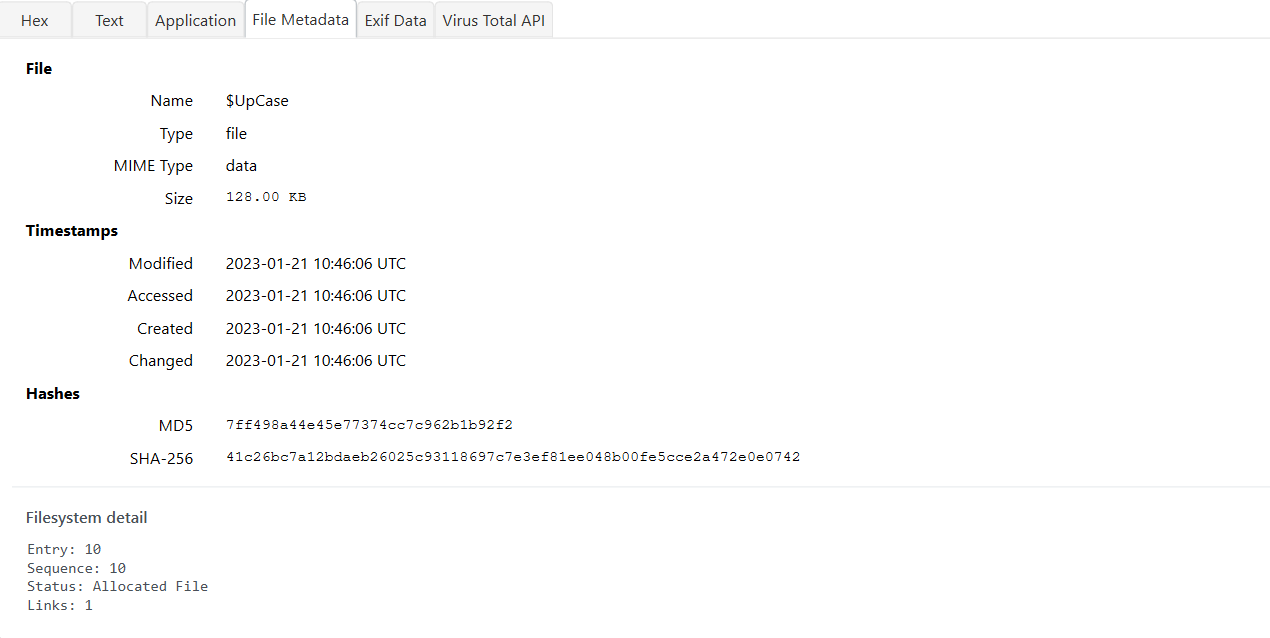
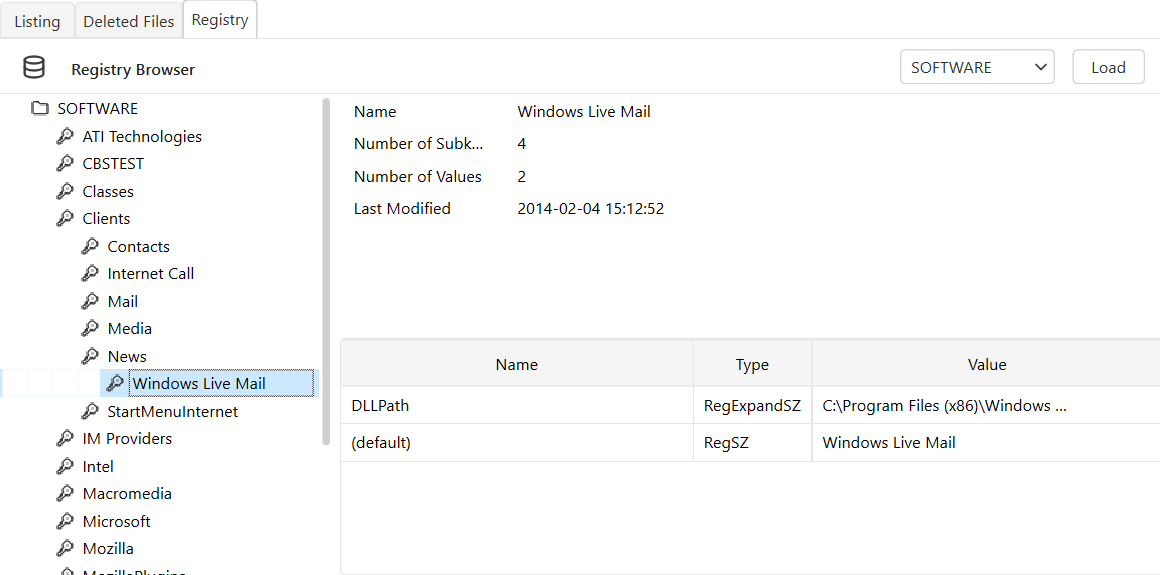
Centre the PDF zoom field, matching the page fields either side of it
The zoom percentage was the one text field in the three viewer toolbars set to
AlignRight, so its value sat hard against the edge while the page boxes in Hex,
Text and the PDF bar itself all centre theirs. Centred now.

The sizes were already right, which is worth recording since it was the other
half of the report: measured across all three bars, the navigation group is
byte-identical -- buttons at x=8 and x=42, the page field 48x24 at x=76, its
label 64 wide at x=130, the next two buttons at x=200 and x=234, separator at
x=268 -- in both themes. The PDF bar diverges only after that separator,
because from there it carries different controls (zoom, fit, pan) rather than a
font size and a search box.

Two measurement notes, since both nearly sent me after imaginary bugs: a
PDFViewer built standalone and handed the stylesheet renders its fields without
borders, which looks like a styling difference but is not one -- inside the
window it inherits the application sheet and matches. And comparing a
freshly-built PDF toolbar against Hex and Text toolbars that have not been
re-laid-out reports a difference that disappears once each is activated.

Verified: zoom field still displays, accepts a typed percentage and resets;
nav group identical across the three bars in both themes; all three toolbars
44px tall; behavioural baseline unchanged.

diff --git a/trace_app/ui/viewers/media/pdf.py b/trace_app/ui/viewers/media/pdf.py
@@ -121,11 +121,15 @@ class PDFViewer(QWidget):
         self.zoom_in_action.triggered.connect(self.zoom_in)
         self.toolbar.addAction(self.zoom_in_action)
 
-        # QLineEdit for zoom percentage
+        # Zoom percentage. Centred and sized like the page box above it and
+        # the font-size control in the Hex and Text bars, so the three tabs
+        # present the same kind of field the same way; it was right-aligned,
+        # which put its text hard against the edge while every other field in
+        # the application centres its value.
         self.zoom_percentage_entry = QLineEdit(self)
         self.zoom_percentage_entry.setFixedWidth(64)
-        self.zoom_percentage_entry.setAlignment(Qt.AlignRight)
-        self.zoom_percentage_entry.setPlaceholderText("100%")  # Default zoom is 100%
+        self.zoom_percentage_entry.setAlignment(Qt.AlignCenter)
+        self.zoom_percentage_entry.setPlaceholderText("100%")
         self.zoom_percentage_entry.returnPressed.connect(self.set_zoom_from_entry)
         self.toolbar.addWidget(self.zoom_percentage_entry)
 
